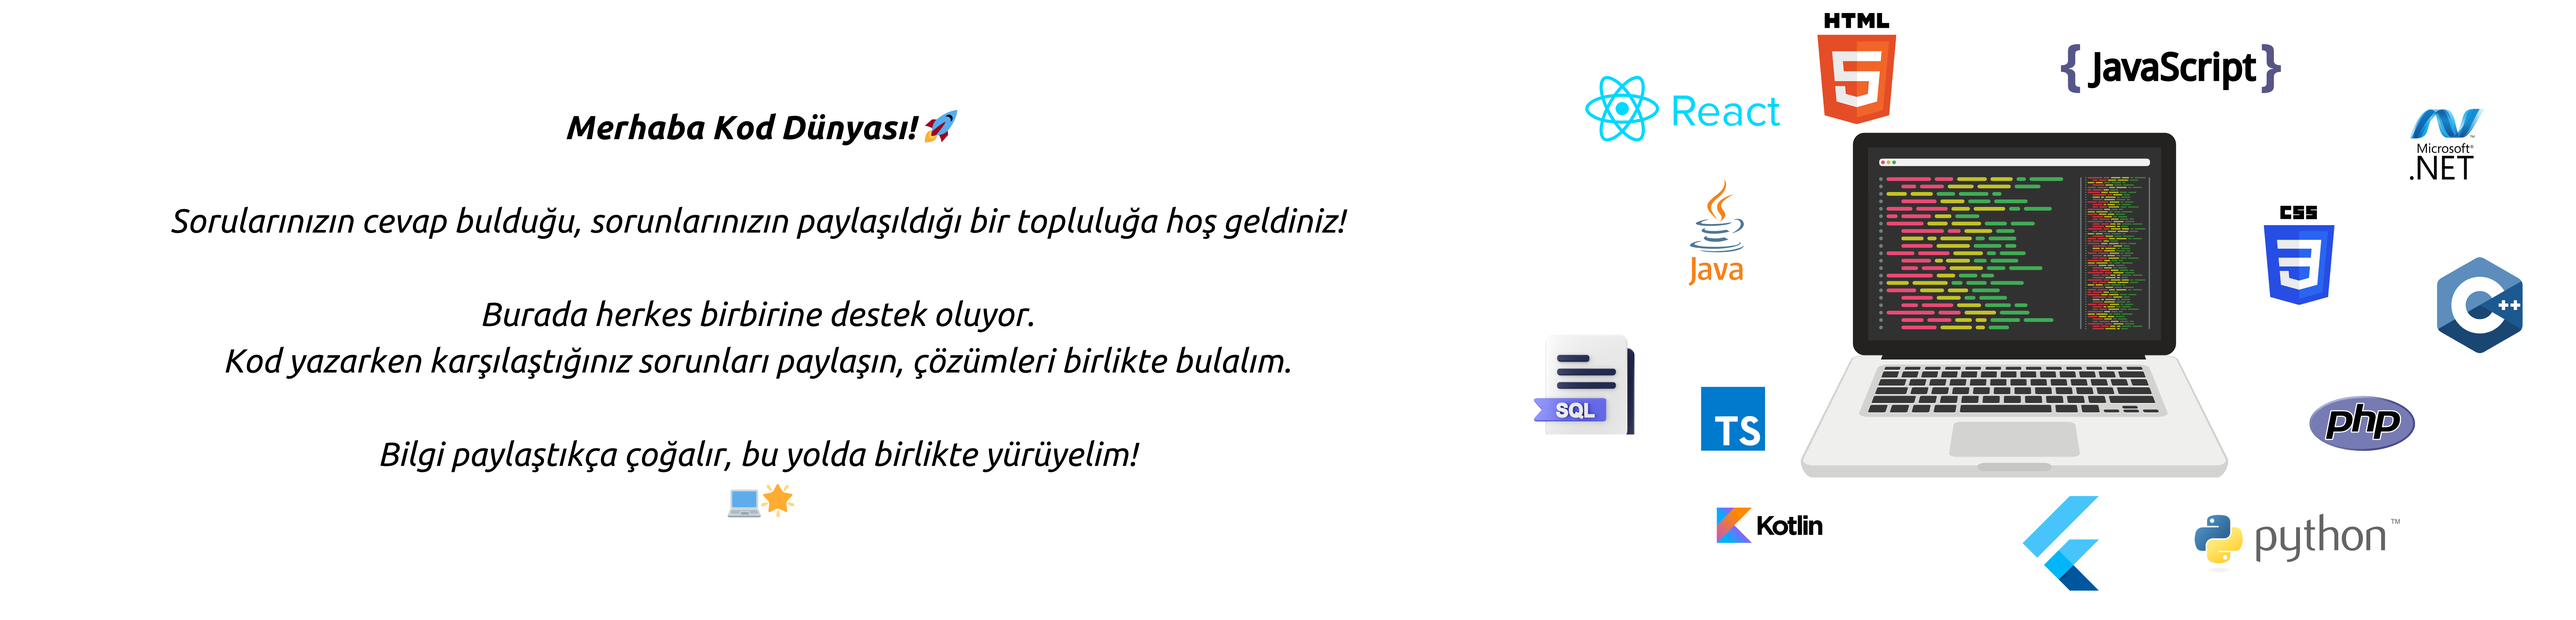
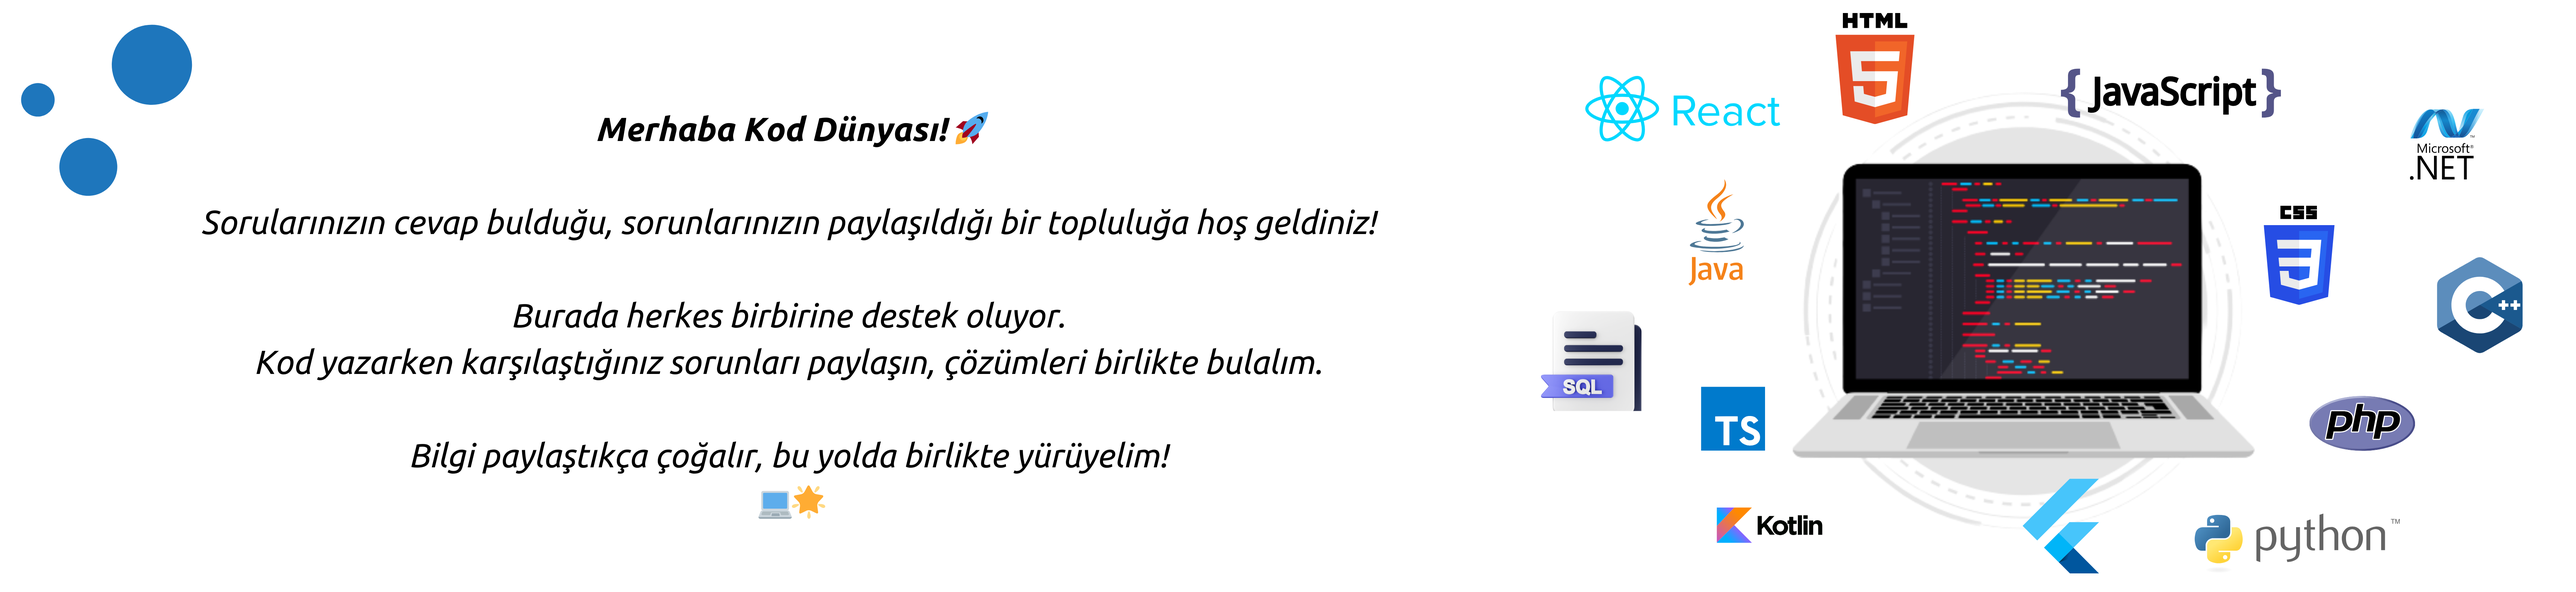
master

diff --git a/src/components/profile/profile.scss b/src/components/profile/profile.scss
@@ -38,7 +38,30 @@
         font-family: monospace;
         font-size: .5rem;
       }
+      input[type="file"] {
+        display: none;
+        &:hover {
+          cursor: pointer;
+          width: 100px;
+        }
+      }
       
+      label {
+        padding: 10px;
+        margin-top: 10px;
+        background-color: #aaa;
+        color: white;
+        border-radius: 10px;
+        cursor: pointer;
+      }
+      h6{
+        margin-top: 10px;
+        font-family: monospace;
+        font-size: 11px;
+        font-weight: 600;
+        color: #4e4e4e;
+        text-align: center;
+      }
     }
     form {
       border-radius: 15px;

diff --git a/src/components/profile/Profile.js b/src/components/profile/Profile.js
@@ -29,8 +29,18 @@ const Profile = () => {
             <img src={image} alt="res" />
           )}
 
-          <input type="file" name="file" onChange={handleFileUpload} />
+          <label for="file-upload" name="file">
+            Resim seç
+          </label>
+          <input
+            id="file-upload"
+            type="file"
 
+            onChange={handleFileUpload}
+          />
+         <h6>Seçilen resim: {state.activeUser.userPicture.split("/")[1]}</h6>
+          
+          
           <hr />
           <span>
             katılma tarihi:{" "}

diff --git a/src/admin/comments/Comments.js b/src/admin/comments/Comments.js
@@ -10,9 +10,11 @@ const Comments = () => {
   return (
     <div id="admin-comment-container">
       {state.problems.map(
-        (problem) =>
-          problem.isDeleted === false &&
-          problem.comments.map((comment) => (
+  (problem) =>
+    problem.isDeleted === false &&
+    problem.comments
+      .sort((a, b) =>  new Date(a.createDate) - new Date(b.createDate))
+      .map((comment) => (
             <div
               //onClick={() => navigate(`/admin/commentdetail/${comment.id}`)}
               key={comment.id}

diff --git a/src/context/UserContext.js b/src/context/UserContext.js
@@ -337,7 +337,7 @@ export const UserProvider = ({ children }) => {
   };
 
   const handleFileUpload = async (e) => {
-    try {
+ 
       const file = e.target.files[0];
       const newFile = new File(
         [file],
@@ -359,9 +359,7 @@ export const UserProvider = ({ children }) => {
         }
       );
       dispatch({ type: "profilePicture", payload: response.data.imagePath });
-    } catch (error) {
-      console.error("File upload error:", error);
-    }
+    
   };
 
   useEffect(() => {

diff --git a/src/admin/problems/Problems.js b/src/admin/problems/Problems.js
@@ -1,4 +1,4 @@
-/* eslint-disable jsx-a11y/alt-text */
+
 import React, { useContext } from "react";
 import AdminContext from "../../context/AdminContext";
 import { useNavigate } from "react-router-dom";
@@ -7,6 +7,7 @@ import image from "../../images/avatar.png";
 const Problems = () => {
   const { state } = useContext(AdminContext);
   const navigate = useNavigate();
+
   return (
     <div id="admin-container">
 

diff --git a/src/components/banner/banner.scss b/src/components/banner/banner.scss
@@ -2,7 +2,7 @@
    img{
     width: 100%;
     height: auto;
-    padding: 10px;
+    padding: 50px 10px;
    }
 
 }
